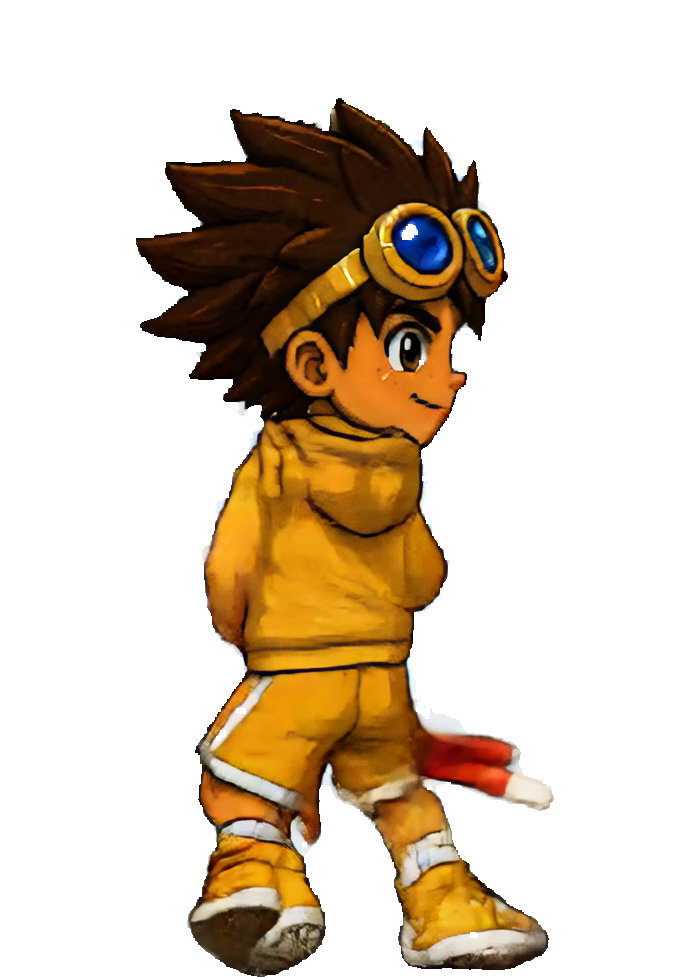
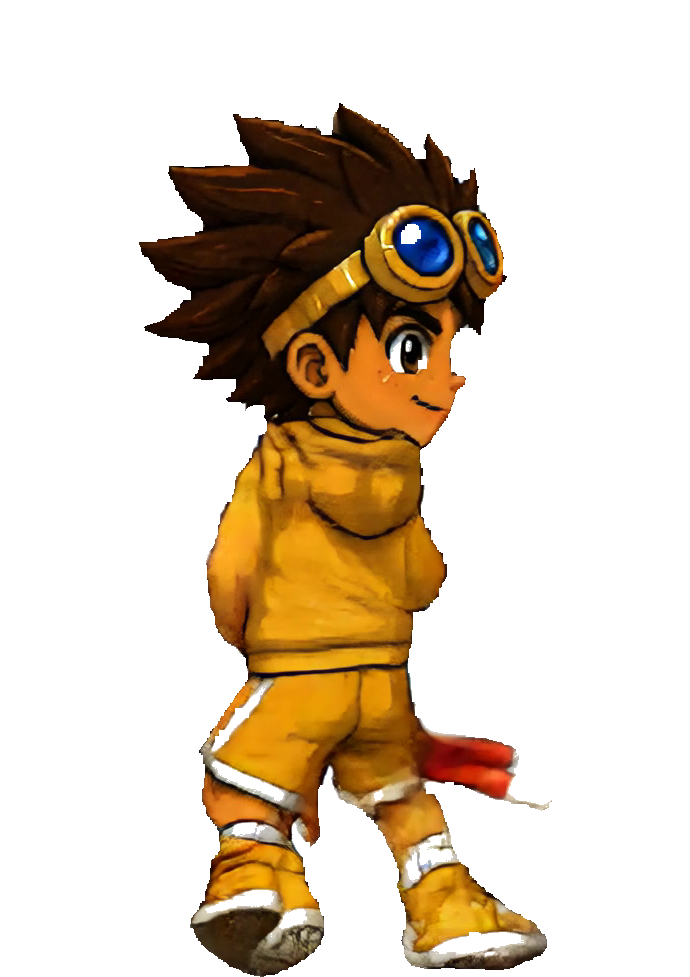
Fix Ocean attack fringe + shrink Ocean 20%
Attack sprites: 4px erosion + color-based fringe pass removes
near-white/light-pink anti-aliased edge pixels around the red bunny.
BASE_SPRITE_H: 160 → 128 (20% smaller than Miles) to reflect
Ocean being a younger/smaller character.

https://claude.ai/code/session_01AcHujqFqKQDzHHk9spZ3nX

diff --git a/src/entities/Ocean.js b/src/entities/Ocean.js
@@ -6,7 +6,7 @@ const ATTACK_DURATION    = 0.48; // 6 frames × 80ms
 const CORD_LEN           = 26;
 
 const WALK_FRAME_MS   = 130;
-const BASE_SPRITE_H   = 160;
+const BASE_SPRITE_H   = 128; // 20% smaller than Miles (160)
 const DEPTH_SCALE_MIN = 0.6;
 const DEPTH_SCALE_MAX = 1.3;
 
